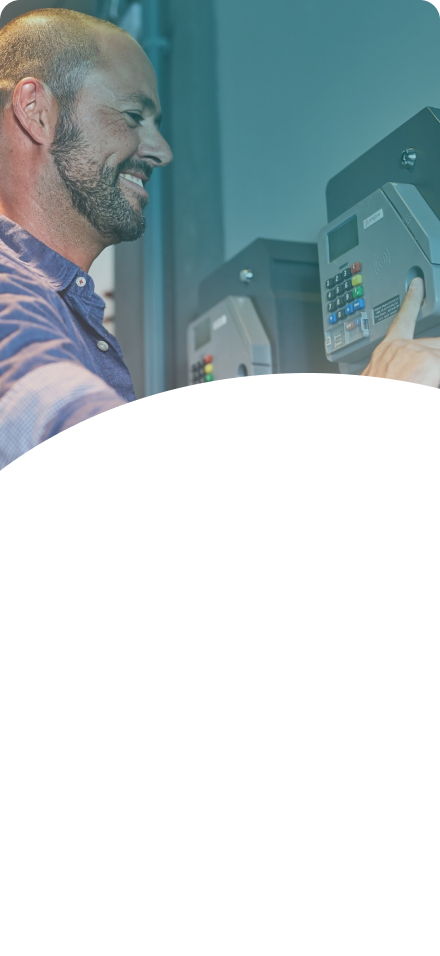
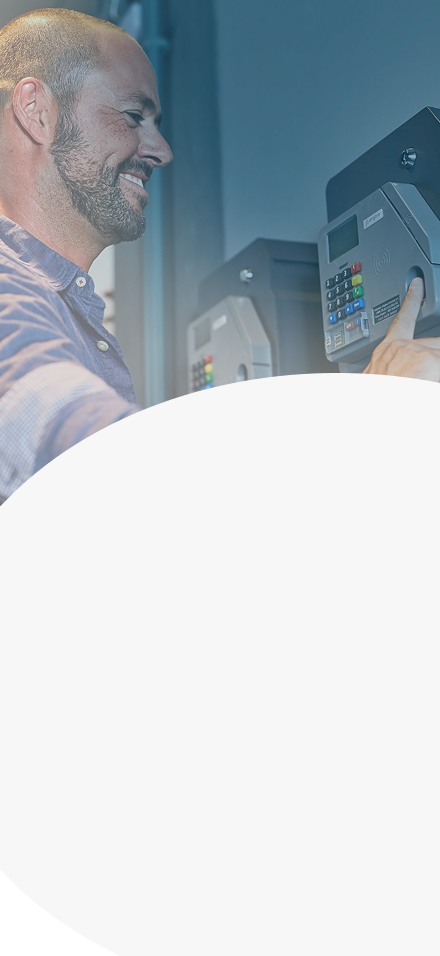
crinado home

diff --git a/app/email.js b/app/email.js
@@ -2,6 +2,7 @@ import { View, Text, TouchableOpacity, Image, StyleSheet, ImageBackground, TextI
 import { Link, router } from 'expo-router';
 import { Ionicons } from '@expo/vector-icons'
 import colors from '../constants/colors';
+import { goBack } from 'expo-router/build/global-state/routing';
 
 
 export default function Email() {
@@ -21,7 +22,7 @@ export default function Email() {
 
         <View style={{flexDirection: 'row', alignItems: 'baseline'}}>
           <Pressable style={styles.arrowBack}
-          onPress={() => {router.back()}}>
+          onPress={() => {router.replace(goBack)}}>
             <Ionicons name='arrow-back' size={24} color={colors.blue}/>
           </Pressable>
           <Text style={styles.tituloInput}> REDEFINIR SENHA </Text>

diff --git a/app/telefone.js b/app/telefone.js
@@ -44,14 +44,11 @@ export default function Telefone() {
         placeholderTextColor={colors.blue}>
         </TextInput>
 
-        <TouchableOpacity style={styles.botaoInput} onPress={CodigoModal} >
+        <TouchableOpacity style={styles.botaoInput}>
           <Text style={styles.textBotaoInput}> ENVIAR CÓDIGO </Text>
         </TouchableOpacity>
 
-        <Modal visible={modalVisible} animationType='fade' transparent={true}>
-          <Verificacao handleClose={() => setModalVisible(false)}/>
-        </Modal>
-
+        
         <Link href={'/email'} style={styles.trocarInput} >
           <Text style={styles.textTrocarInput}> CONTINUAR COM EMAIL </Text>
         </Link>

diff --git a/app/index.js b/app/index.js
@@ -1,11 +1,11 @@
 import { View, Text, TouchableOpacity, Image, StyleSheet, ImageBackground, TextInput } from 'react-native';
-import { Link, router } from 'expo-router';
+import { Link, useRouter } from 'expo-router';
 import colors from '../constants/colors';
 
 
 
 export default function Login() {
-   
+   const router = useRouter();
 
   return (
 
@@ -36,7 +36,7 @@ export default function Login() {
         </TextInput>
 
         <TouchableOpacity 
-        style={styles.botaoInput} >
+        style={styles.botaoInput} onPress={() => router.navigate('(app)')}>
           <Text style={styles.textBotaoInput}> ENTRAR </Text>
         </TouchableOpacity>
 

diff --git a/app/(app)/_layout.js b/app/(app)/_layout.js
@@ -1,9 +1,24 @@
 import { Stack } from "expo-router"
+import { Header } from "react-native/Libraries/NewAppScreen"
 
 export default function MainLayout() {
     return(
-        <Stack>
-        <Stack.Screen />
+
+        
+        <Stack 
+        screenOptions={{
+        headerStyle: {
+          backgroundColor: '#f4511e',
+        },
+        headerTintColor: '#fff',
+        headerTitleStyle: {
+          fontWeight: 'bold',
+        },
+      }}>
+           
+        <Stack.Screen 
+        name='index' 
+        />
         </Stack>
     )
 }

diff --git a/app/_layout.js b/app/_layout.js
@@ -18,10 +18,10 @@ export default function Layout() {
       options={{ headerShown: false }} 
       />
 
+
       <Stack.Screen
-      name='../components/modal/verificacao'
-      options={{ headerShown: false}}
-      />
+      name='(app)'
+      options={{headerShown: false}}/>
 
 
     </Stack>

diff --git a/app/(app)/index.js b/app/(app)/index.js
@@ -1,0 +1,12 @@
+import { View, Text } from "react-native";
+
+export default function Home(){
+
+    return(
+        <View>
+            <Text>
+                
+            </Text>
+        </View>
+    )
+}

diff --git a/constants/colors.ts b/constants/colors.ts
@@ -1,6 +1,6 @@
 export default {
     white:'#ffffff',
     black: '#000000',
-    blue:'#288B94',
+    blue:'#12577b',
     transparent: "rgba(24, 24, 24, 0.5)",
 };
